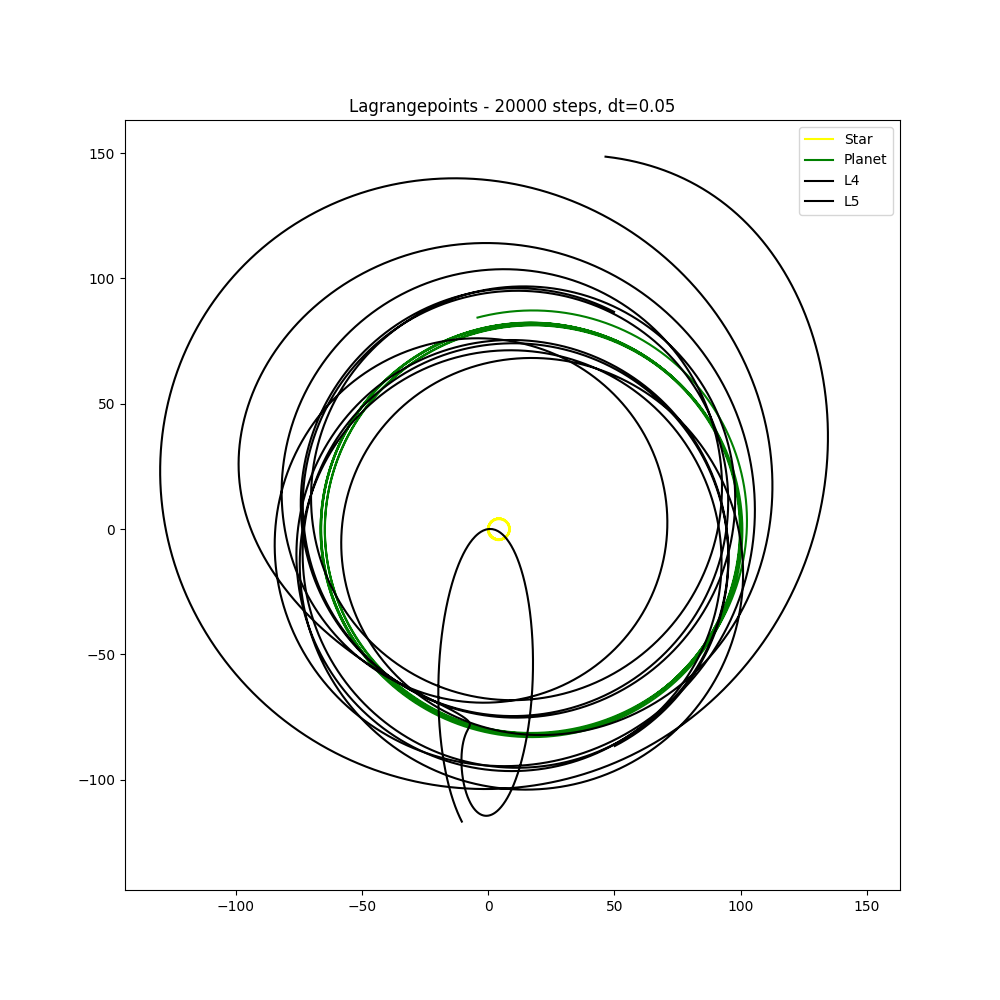
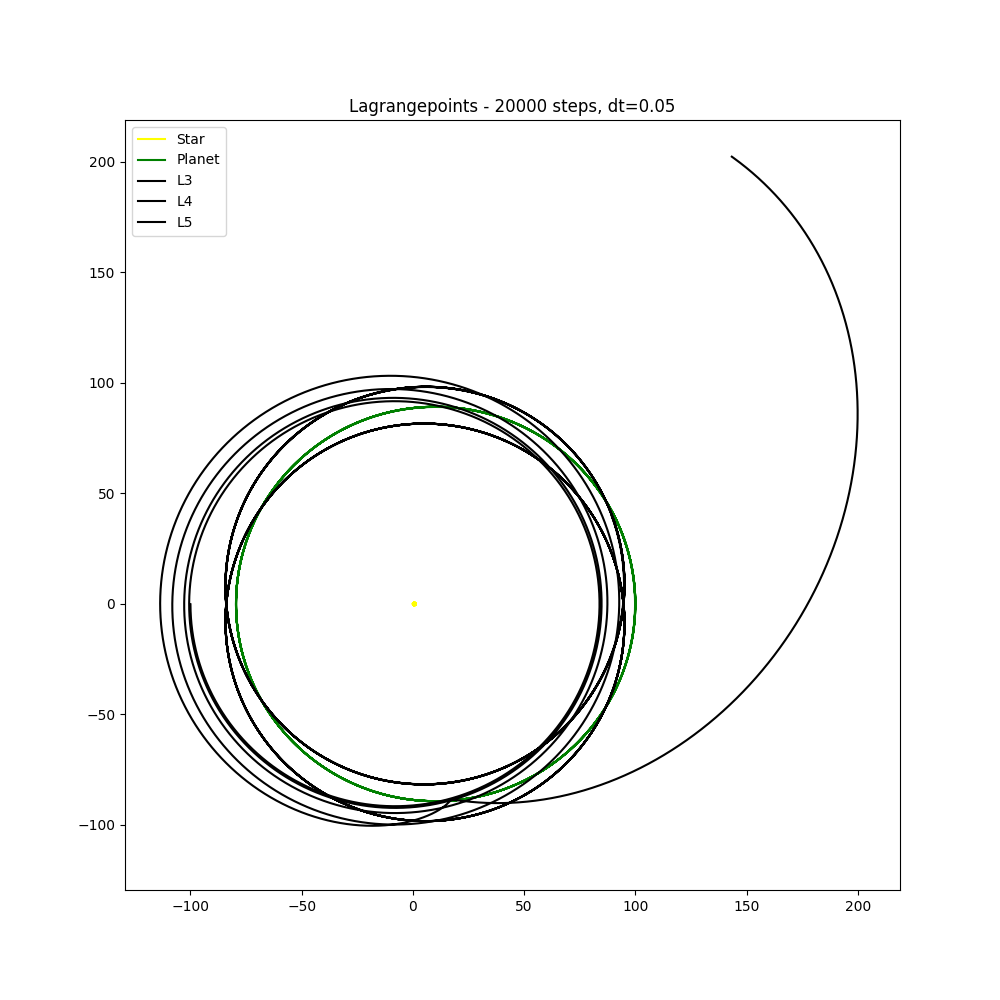
öaslikh

diff --git a/Particles.py b/Particles.py
@@ -93,19 +93,19 @@ def particleList(name):
     if name == "Lagrangepoints":
         star = Particle("Star", 1000, {"x": 0, "y": 0, "z": 0}, {
                         "x": 0, "y": 0, "z": 0}, "yellow")
-        planet = Particle("Planet", 20, {"x": 100, "y": 0, "z": 0}, {
+        planet = Particle("Planet", 7, {"x": 100, "y": 0, "z": 0}, {
                         "x": 0, "y": 3, "z": 0}, "green")
-        l1 = Particle("L1", 0.1, {"x": 100/(sqrt(50)+1)*sqrt(50), "y": 0, "z": 0}, {
-                        "x": 0, "y": 3/(sqrt(50)+1)*sqrt(50), "z": 0}, "black")
-        l2 = Particle("L2", 0.1, {"x": 100, "y": 0, "z": 0}, {
-                        "x": 0, "y": 3, "z": 0}, "black")
-        l3 = Particle("L3", 0.1, {"x": 100, "y": 0, "z": 0}, {
-                        "x": 0, "y": 3, "z": 0}, "black")
-        l4 = Particle("L4", 0.1, {"x": 100*np.cos(np.pi/3), "y":-100*np.sin(np.pi/3) , "z": 0}, {
+        #l1 = Particle("L1", 0.01, {"x": 100/(sqrt(50)+1)*sqrt(50), "y": 0, "z": 0}, {
+        #                "x": 0, "y": 3/(sqrt(50)+1)*sqrt(50), "z": 0}, "black")
+        #l2 = Particle("L2", 0.01, {"x": 100, "y": 0, "z": 0}, {
+        #                "x": 0, "y": 3, "z": 0}, "black")
+        l3 = Particle("L3", 0.01, {"x": -100, "y": 0, "z": 0}, {
+                        "x": 0, "y": -3, "z": 0}, "black")
+        l4 = Particle("L4", 0.01, {"x": 100*np.cos(np.pi/3), "y":-100*np.sin(np.pi/3) , "z": 0}, {
                         "x": 3*np.sin(np.pi/3), "y": 3*np.cos(np.pi/3), "z": 0}, "black")
-        l5 = Particle("L5", 0.1, {"x": 100*np.cos(np.pi/3), "y":100*np.sin(np.pi/3) , "z": 0}, {
+        l5 = Particle("L5", 0.01, {"x": 100*np.cos(np.pi/3), "y":100*np.sin(np.pi/3) , "z": 0}, {
                         "x": -3*np.sin(np.pi/3), "y": 3*np.cos(np.pi/3), "z": 0}, "black")
-        return [star, planet, l4, l5]
+        return [star, planet, l3, l4, l5]
 
 def removeTotalImpulse(particleList):
     totalImpulse = np.array([float(0), float(0), float(0)])

diff --git a/animate.py b/animate.py
@@ -6,14 +6,14 @@ import Particles
 import progressBar
 import sys
 
-steps = 100000
-interval = 1000*4*170#float(1000/steps)
+steps = 20000
+interval = float(1000/steps)
 
 name = "Solar"
-#name = "Tatoo"
-#name = "Moon System"
-#name = "Elipse"
-#name = "Lagrangepoints"
+name = "Tatoo"
+name = "Moon System"
+name = "Elipse"
+name = "Lagrangepoints"
 
 particles = Particles.particleList(name)
 
